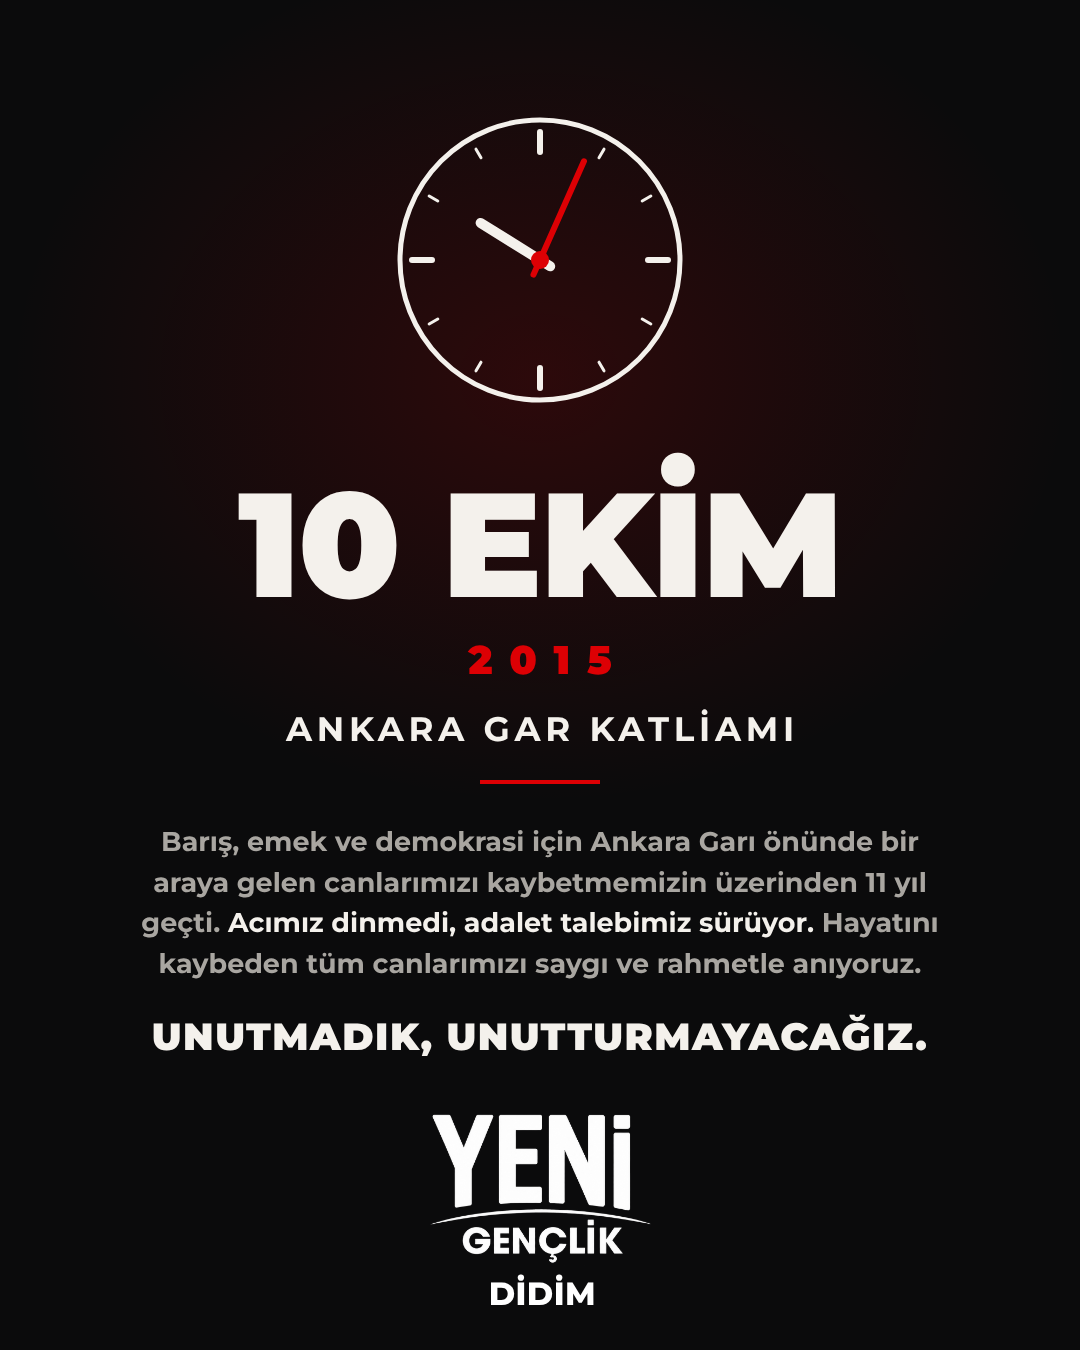
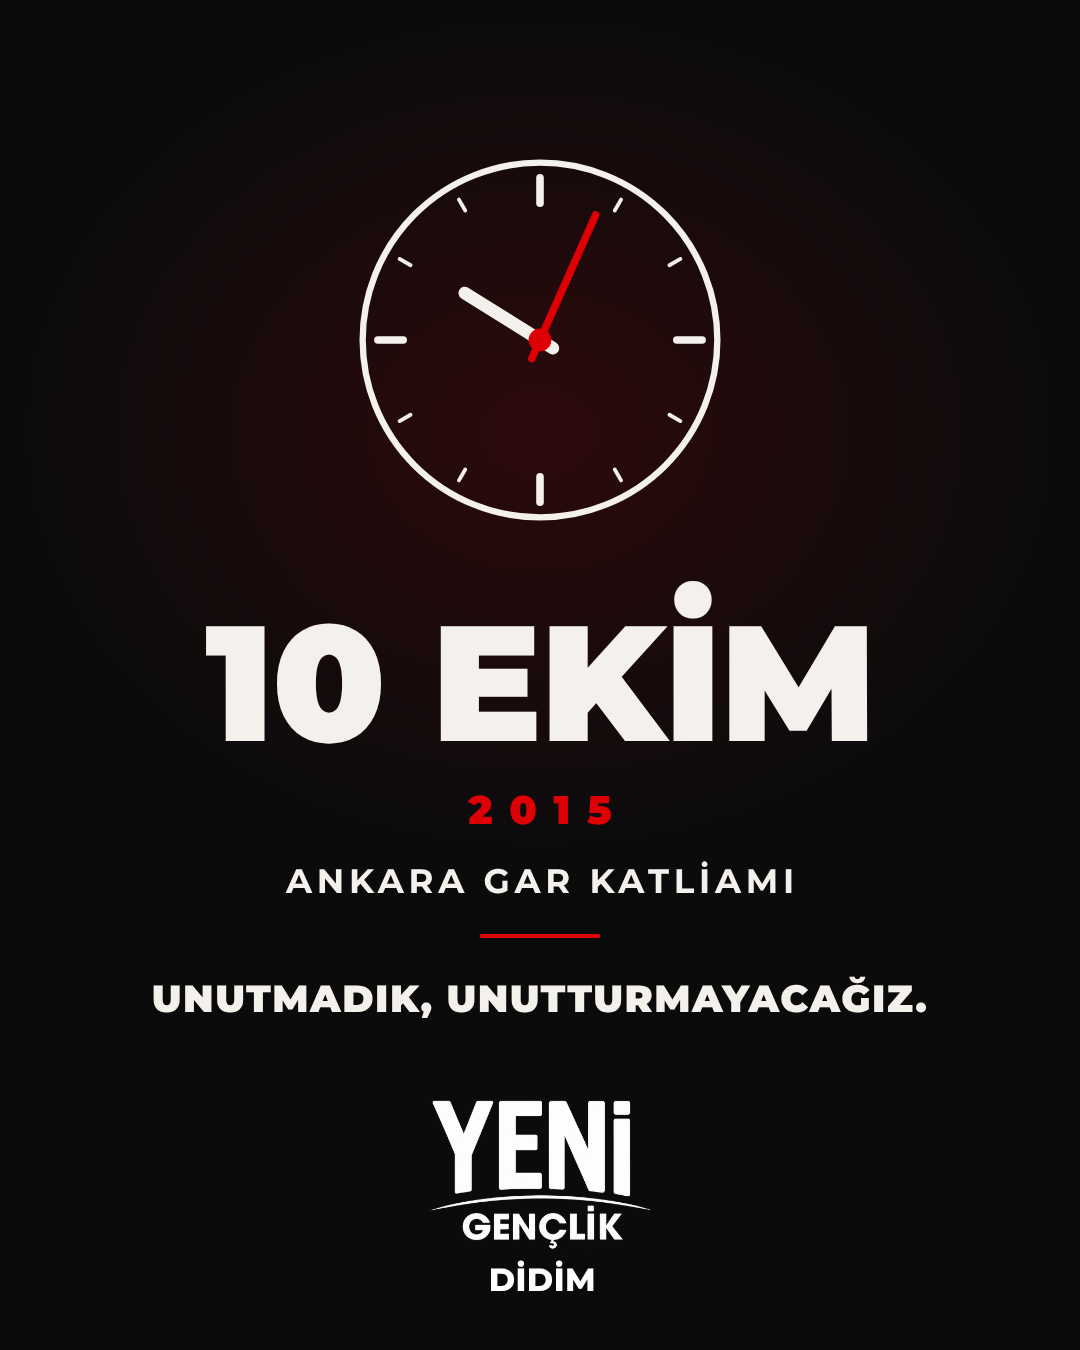
10 Ekim postu: paragraf açıklamaya taşındı, görsel sadeleştirildi
Claude-Session: https://claude.ai/code/session_01SatttGbgBLoCnk9KGLypWv

Changed region(s): [[0.1222, 0.0622, 0.8556, 0.7778], [0.3972, 0.8089, 0.5806, 0.9644]]

diff --git a/tasarim/10-ekim-gar.html b/tasarim/10-ekim-gar.html
@@ -11,27 +11,24 @@ body{position:relative;color:var(--beyaz);font-family:Metin,sans-serif}
 
 /* hafif doku */
 body::before{content:"";position:absolute;inset:0;
-  background:radial-gradient(ellipse 70% 45% at 50% 28%,rgba(221,0,4,.16),transparent 70%)}
+  background:radial-gradient(ellipse 70% 45% at 50% 32%,rgba(221,0,4,.16),transparent 70%)}
 
-.saat{position:absolute;left:50%;top:110px;width:300px;height:300px;transform:translateX(-50%)}
+.saat{position:absolute;left:50%;top:150px;width:380px;height:380px;transform:translateX(-50%)}
 
-.tarih{position:absolute;top:470px;width:100%;text-align:center;
-  font:900 148px/1 Baslik;letter-spacing:-.01em}
-.yil{position:absolute;top:640px;width:100%;text-align:center;
+.tarih{position:absolute;top:600px;width:100%;text-align:center;
+  font:900 164px/1 Baslik;letter-spacing:-.01em}
+.yil{position:absolute;top:790px;width:100%;text-align:center;
   font:900 40px/1 Baslik;color:var(--kirmizi);letter-spacing:.42em;padding-left:.42em;box-sizing:border-box}
-.olay{position:absolute;top:712px;width:100%;text-align:center;
+.olay{position:absolute;top:864px;width:100%;text-align:center;
   font:700 34px/1 Metin;letter-spacing:.14em;padding-left:.14em;box-sizing:border-box}
-.cizgi{position:absolute;top:780px;left:50%;width:120px;height:4px;margin-left:-60px;background:var(--kirmizi)}
+.cizgi{position:absolute;top:934px;left:50%;width:120px;height:4px;margin-left:-60px;background:var(--kirmizi)}
 
-.metin{position:absolute;top:822px;left:120px;right:120px;text-align:center;
-  font:700 27px/1.5 Metin;color:var(--gri)}
-.metin b{color:var(--beyaz);font-weight:700}
 
-.slogan{position:absolute;top:1018px;width:100%;text-align:center;
+.slogan{position:absolute;top:980px;width:100%;text-align:center;
   font:900 38px/1 Baslik;letter-spacing:.04em}
 
 /* logo: logo-didim.html ile aynı ölçüler, küçültülmüş */
-.logo{position:absolute;left:50%;top:1112px;width:835px;height:705px;
+.logo{position:absolute;left:50%;top:1098px;width:835px;height:705px;
   transform:translateX(-50%) scale(.27);transform-origin:50% 0}
 .logo img{position:absolute;left:0;top:0}
 .logo .sehir{position:absolute;left:0;width:852px;text-align:center;top:613px;
@@ -67,12 +64,6 @@ body::before{content:"";position:absolute;inset:0;
 <div class="olay">ANKARA GAR KATLİAMI</div>
 <div class="cizgi"></div>
 
-<div class="metin">
-  Barış, emek ve demokrasi için Ankara Garı önünde bir araya gelen
-  canlarımızı kaybetmemizin üzerinden 11 yıl geçti.
-  <b>Acımız dinmedi, adalet talebimiz sürüyor.</b> Hayatını kaybeden
-  tüm canlarımızı saygı ve rahmetle anıyoruz.
-</div>
 
 <div class="slogan">UNUTMADIK, UNUTTURMAYACAĞIZ.</div>
 
